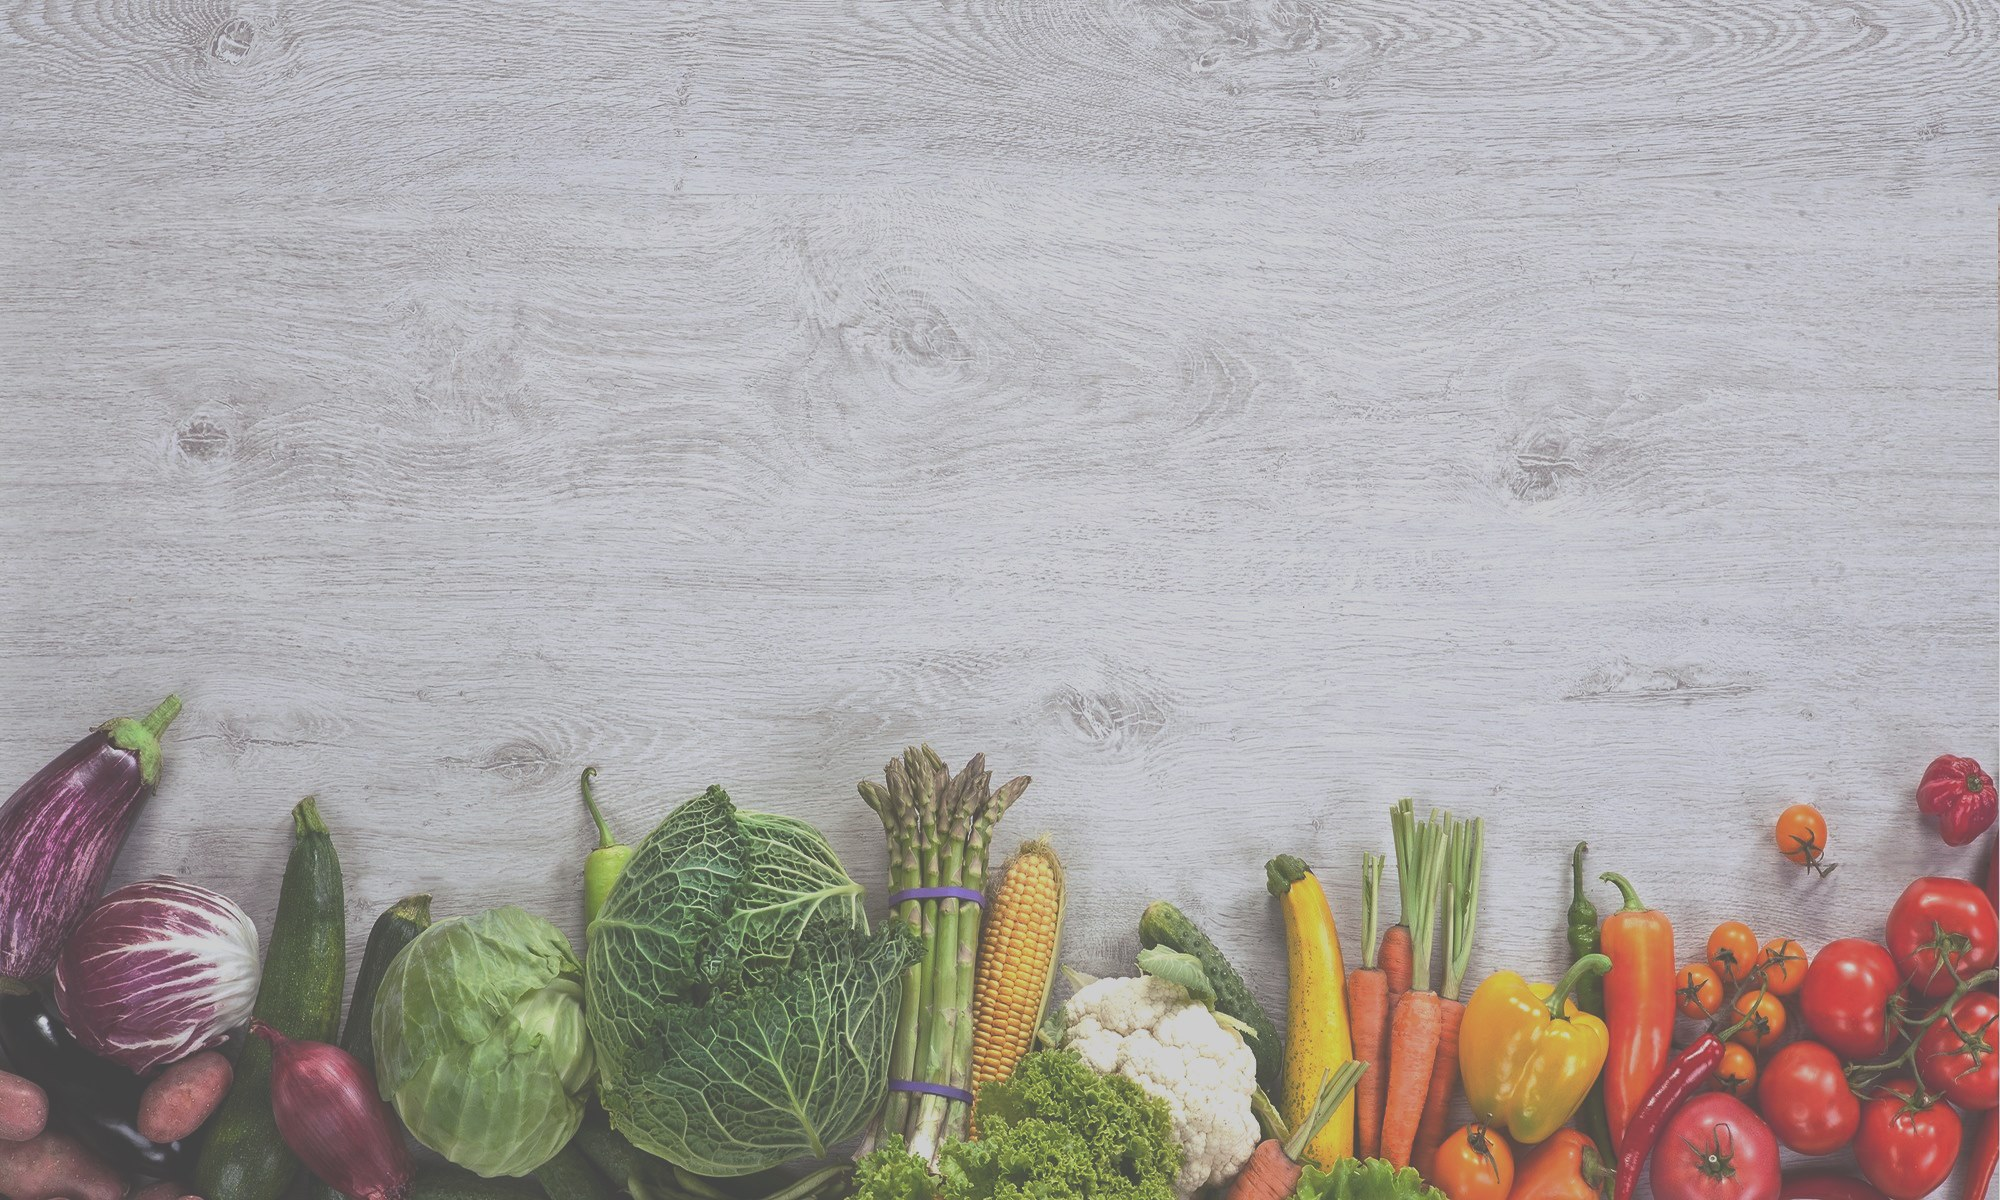
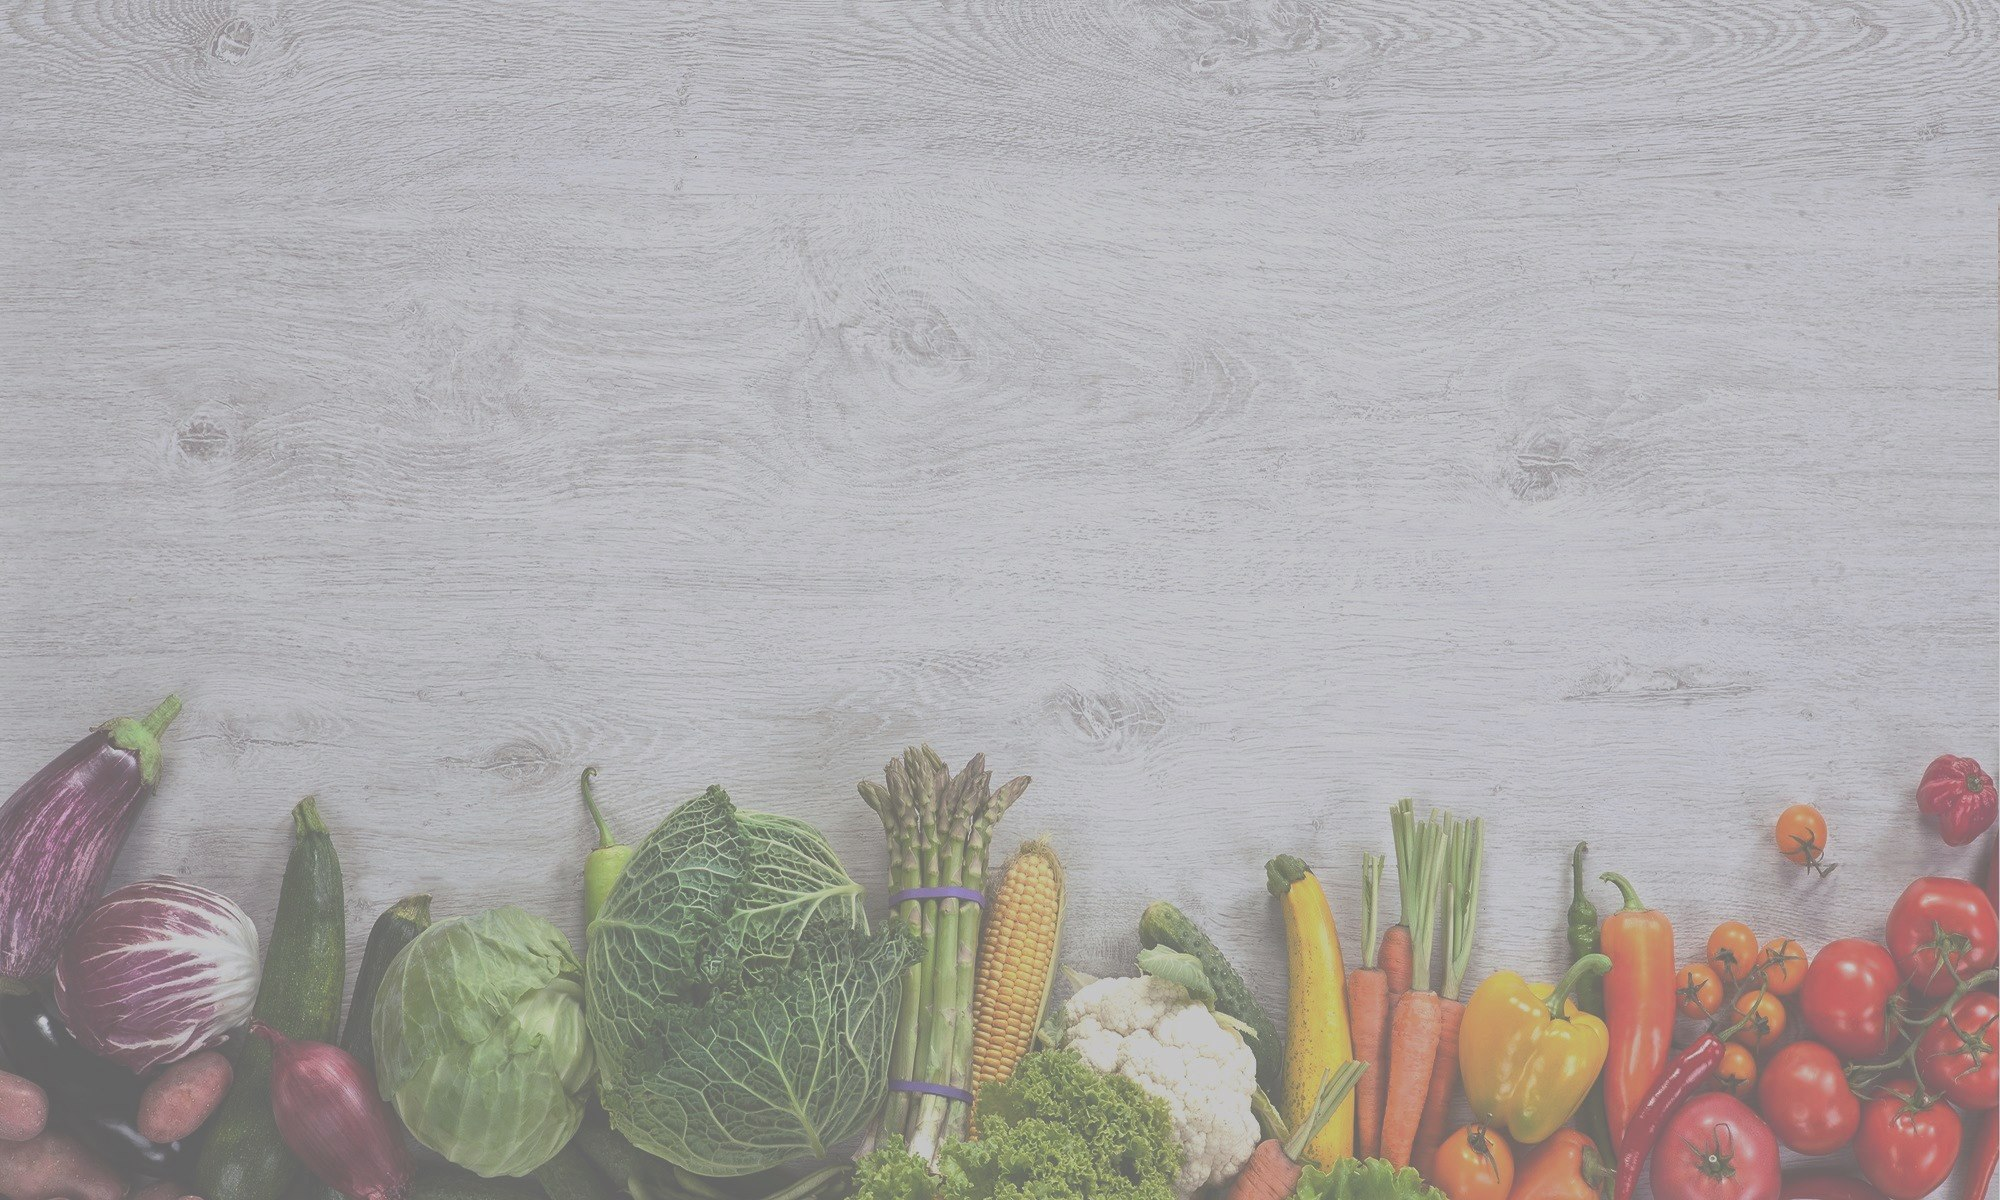
background image added

Changed region(s): [[0.0, 0.5858, 1.0, 1.0], [0.868, 0.6783, 0.93, 0.74]]

diff --git a/src/static/js/Nav.jsx b/src/static/js/Nav.jsx
@@ -5,17 +5,13 @@ import RecipePagination from "./RecipePagination"
 export default class Example extends React.Component {
   render() {
 	let searchActions;
-	var style = {
-        marginLeft: "4%"
-    }
+
 	if(this.props.querySuccessful && this.props.querySuccessful != 'N/A'){
 		searchActions = (
 		  <div>
-		  	<div className="text-center">
 	      		<RecipePagination handlePage={this.props.handlePage} resultCount={this.props.resultCount}
 	      						  pageNumber={this.props.pageNumber}/>
-	      	</div>
-	      	<Button style={style}color="info" size="lg" block onClick={this.props.handleClick}>Modify Search</Button>
+	      		<Button color="info" size="lg" block onClick={this.props.handleClick}>Modify Search</Button>
 		  </div>
 		)
 	}

diff --git a/src/static/js/App.jsx b/src/static/js/App.jsx
@@ -6,6 +6,7 @@ import Navbar from "./Navbar"
 import Nav from "./Nav"
 
 var $ = require('jquery');
+import Image from '../images/foodiebackground2.jpg'; // Import using relative path
 
 
 export default class App extends Component {
@@ -123,7 +124,14 @@ export default class App extends Component {
                 );
             }
         };
-
+        var imgsrc = 'url(/dist/' + Image + ')'; 
+        const styles = {
+            minHeight: "100%",
+            backgroundImage: (imgsrc),
+            backgroundRepeat: "no-repeat",
+            backgroundPosition: "center",
+            backgroundSize: "cover"
+        };
         return(
             <div>
                 <Container fluid>

diff --git a/src/static/css/fullstack.css b/src/static/css/fullstack.css
@@ -1,26 +1,9 @@
-.page-header {
+.backgroundImage {
     min-height: 100%;
     text-align: center;
-    background-image: url('../images/header.jpg');
+    background-image: url('../images/foodiebackground2.jpg');
     background-repeat: no-repeat;
     background-position: center;
     background-size: cover;
     margin-top: -15px;
-}
-.header-contents {
-    top: 50%;
-    position:absolute;
-}
-.header-contents h1 {
-    font-size: 120px;
-    font-weight: 300;
-}
-.header-contents button {
-    font-size: 35px;
-    border-radius: 30px;
-    font-weight: 300;
-}
-
-.header-contents button:focus {
-    outline: None;
 }
